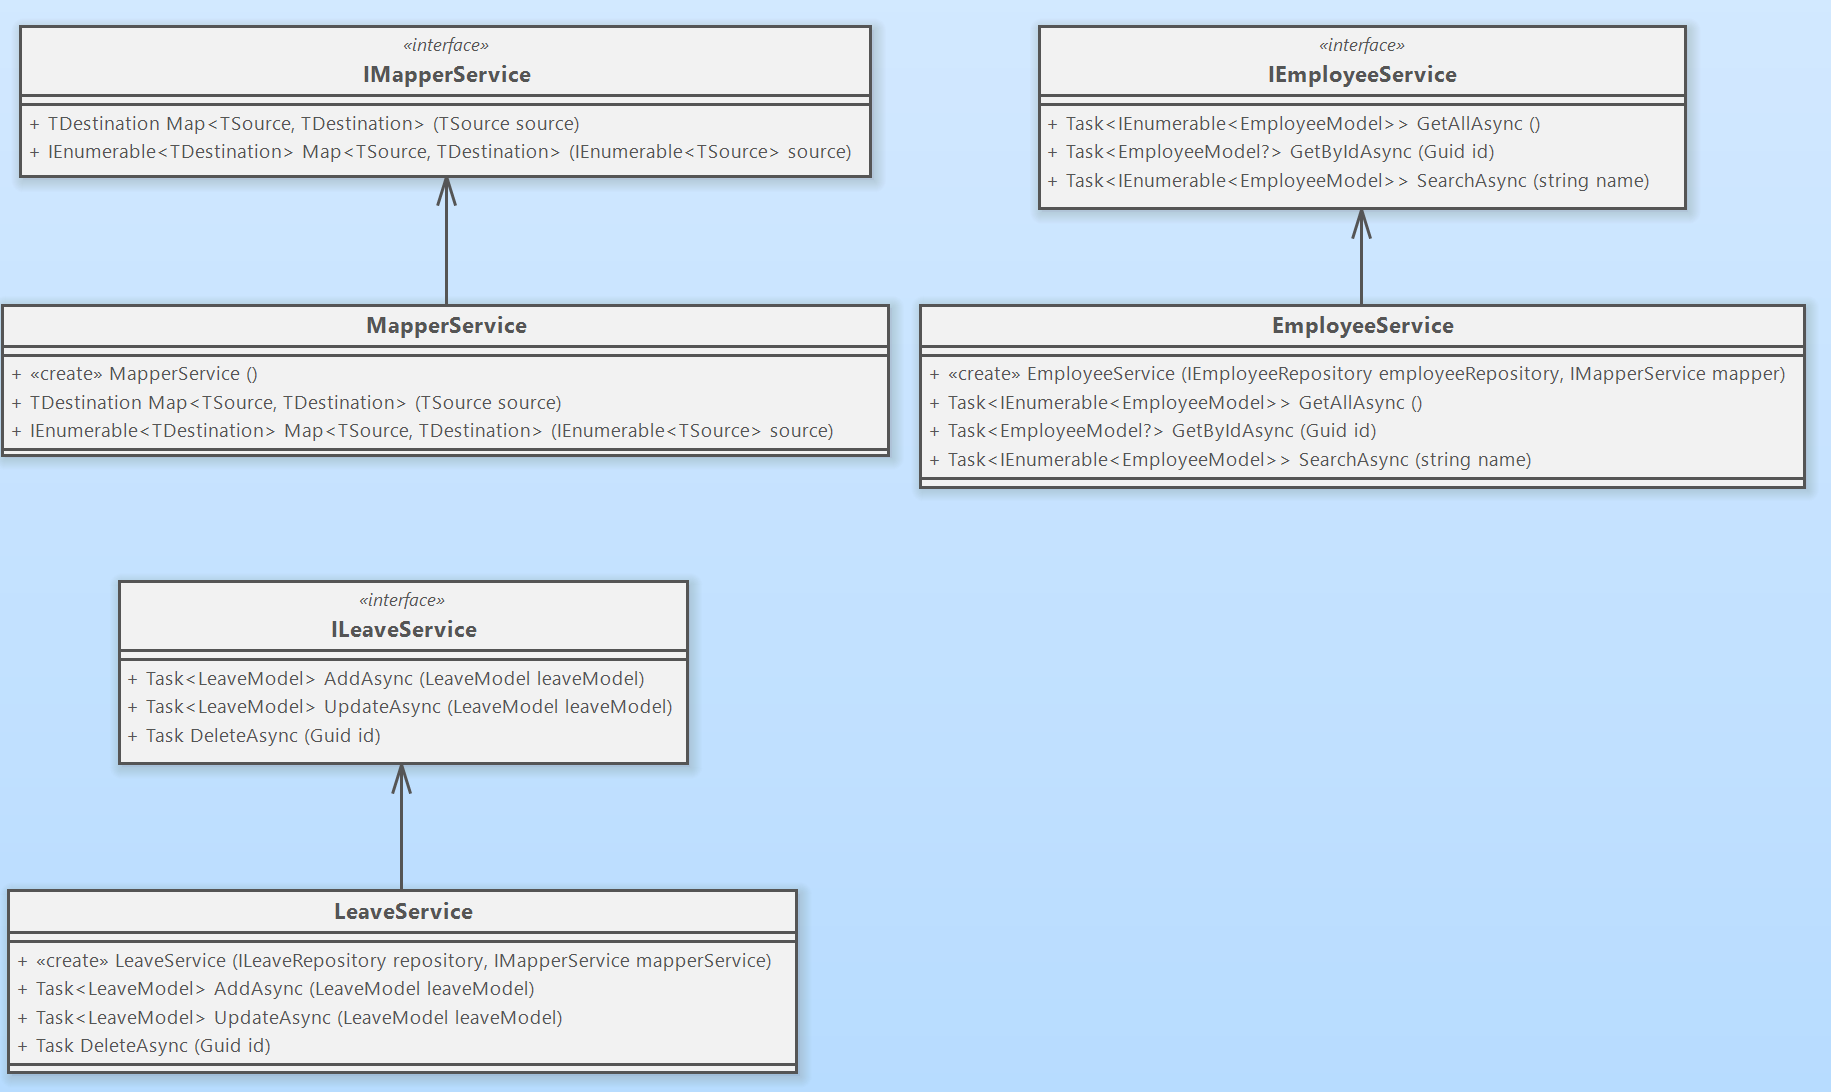
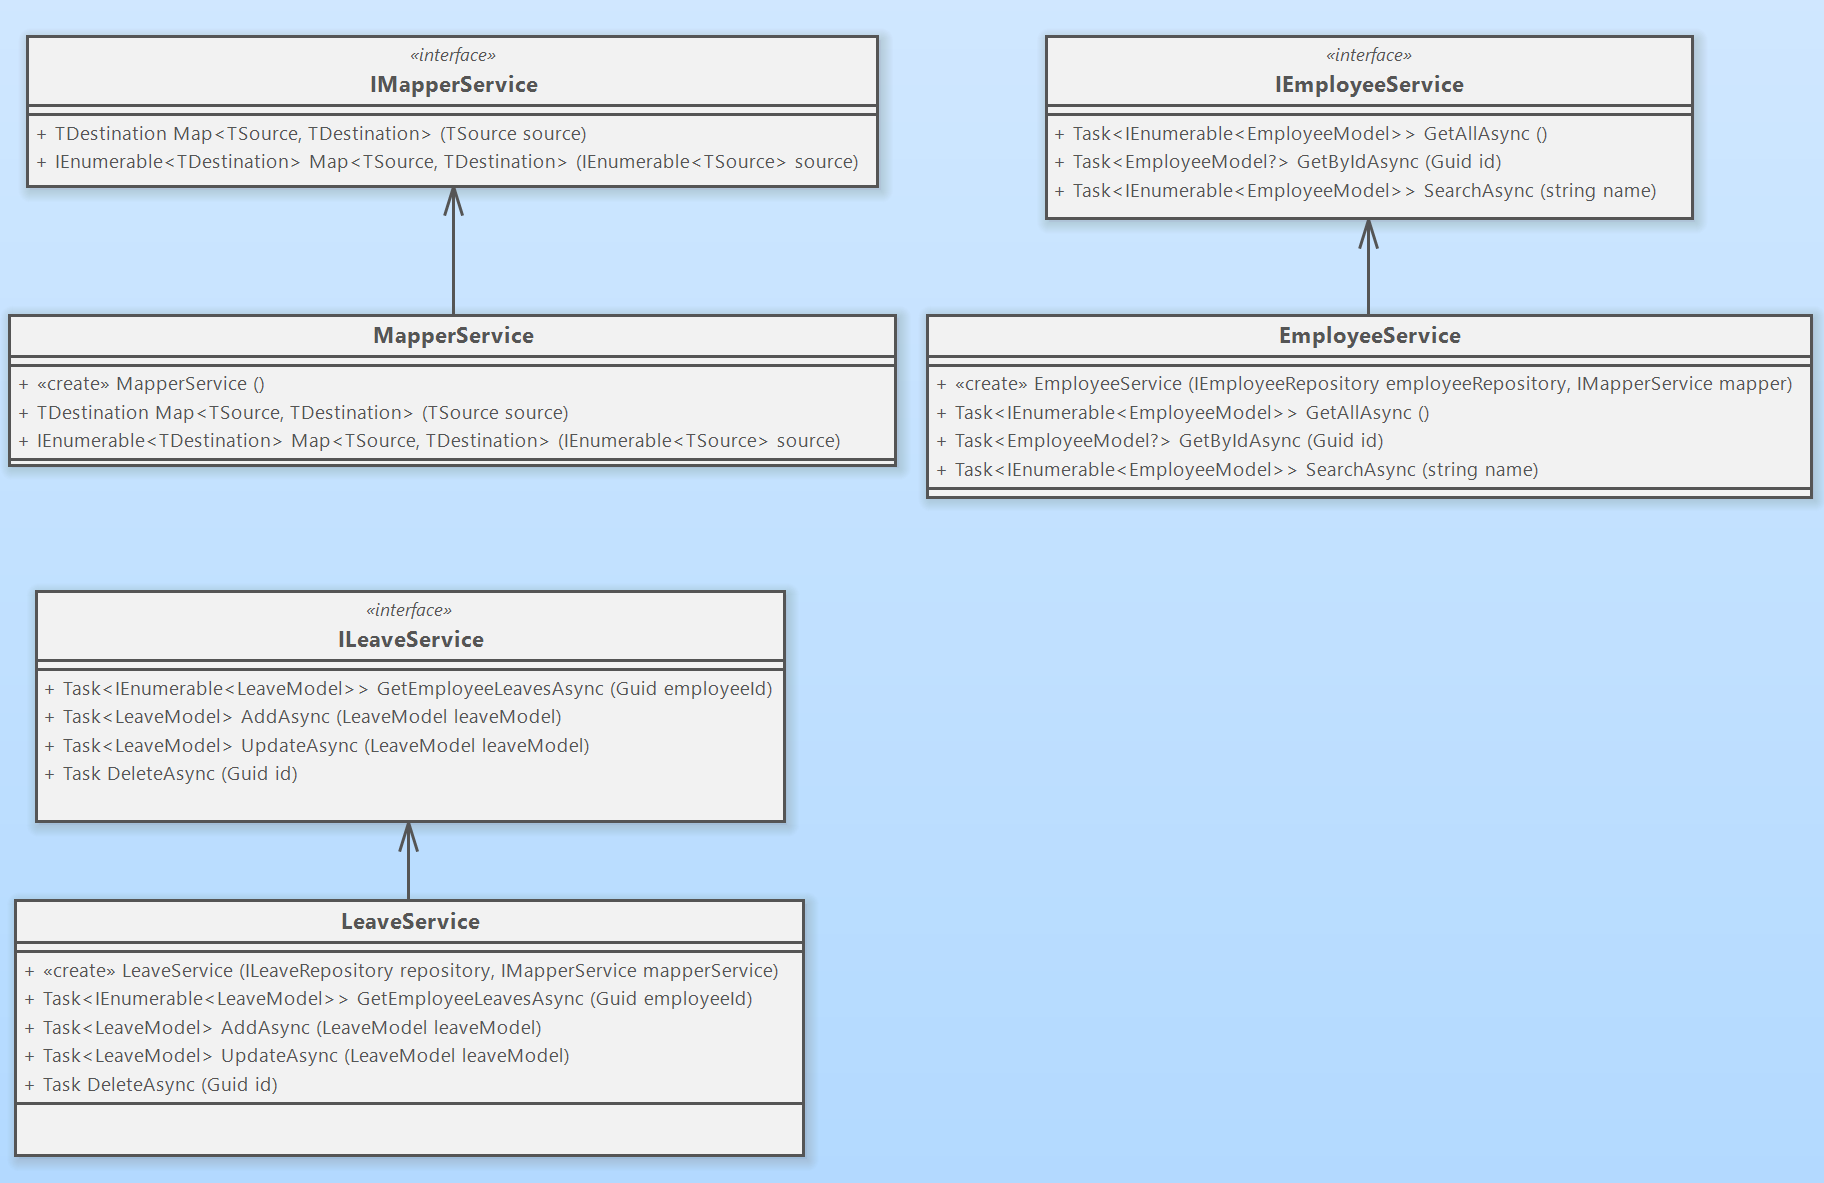
added get employee leaves endpoint.

Changed region(s): [[0.0, 0.0, 1.0, 0.467], [0.0, 0.4982, 0.4688, 0.9963], [0.5625, 0.0, 0.9375, 0.2179]]

diff --git a/Vypex.CodingChallenge.Frontend/src/app/employees/employees.component.ts b/Vypex.CodingChallenge.Frontend/src/app/employees/employees.component.ts
@@ -38,8 +38,8 @@ export class EmployeesComponent implements OnInit {
   }
 
   error(error: any) {
-    this.reset(); // Reset employees state.
-    this.error$.next(error); // Emit error to parent component.
+    this.reset(); // Reset error and employees state.
+    this.error$.next(error); // Display error.
   }
 
   load() {

diff --git a/Vypex.CodingChallenge.Frontend/src/app/employees/employees.component.html b/Vypex.CodingChallenge.Frontend/src/app/employees/employees.component.html
@@ -1,5 +1,4 @@
 @if (error$ | async) {
-<br />
 <nz-alert nzType="error" [nzMessage]="(error$ | async)?.message"></nz-alert>
 }
 <br />

diff --git a/Vypex.CodingChallenge.Service/Vypex.CodingChallenge.Infrastructure/Repositories/LeaveRepository.cs b/Vypex.CodingChallenge.Service/Vypex.CodingChallenge.Infrastructure/Repositories/LeaveRepository.cs
@@ -1,4 +1,5 @@
-using Vypex.CodingChallenge.Domain.Models;
+using Microsoft.EntityFrameworkCore;
+using Vypex.CodingChallenge.Domain.Models;
 using Vypex.CodingChallenge.Infrastructure.Data;
 
 namespace Vypex.CodingChallenge.Infrastructure.Repositories
@@ -35,6 +36,20 @@ namespace Vypex.CodingChallenge.Infrastructure.Repositories
             _context.Leaves.Update(entity);
             await _context.SaveChangesAsync();
             return entity;
+        }
+
+        public async Task<IEnumerable<Leave>> GetEmployeeLeavesAsync(Guid employeeId)
+        {
+            var employee = await _context.Employees
+                                 .Include(e => e.Leaves)
+                                 .SingleOrDefaultAsync(e => e.Id == employeeId);
+
+            if (employee == null)
+            {
+                return Enumerable.Empty<Leave>();
+            }
+
+            return employee.Leaves;
         }
     }
 }

diff --git a/Vypex.CodingChallenge.Service/Vypex.CodingChallenge.Infrastructure/Business/LeaveService.cs b/Vypex.CodingChallenge.Service/Vypex.CodingChallenge.Infrastructure/Business/LeaveService.cs
@@ -15,6 +15,12 @@ namespace Vypex.CodingChallenge.Infrastructure.Business
             _mapperService = mapperService;
         }
 
+        public async Task<IEnumerable<LeaveModel>> GetEmployeeLeavesAsync(Guid employeeId)
+        {
+            var leaves = await _leaveRepository.GetEmployeeLeavesAsync(employeeId);
+            return _mapperService.Map<Leave, LeaveModel>(leaves);
+        }
+
         public async Task<LeaveModel> AddAsync(LeaveModel leaveModel)
         {
             var leave = _mapperService.Map<LeaveModel, Leave>(leaveModel);

diff --git a/Vypex.CodingChallenge.Service/Vypex.CodingChallenge.API/Controllers/LeavesController.cs b/Vypex.CodingChallenge.Service/Vypex.CodingChallenge.API/Controllers/LeavesController.cs
@@ -15,6 +15,12 @@ namespace Vypex.CodingChallenge.API.Controllers
             _leaveService = leaveService;
         }
 
+        [HttpGet("{employeeId}")]
+        public async Task<IActionResult> GetEmployeeLeaves(Guid employeeId)
+        {
+            return Ok(await _leaveService.GetEmployeeLeavesAsync(employeeId));
+        }
+
         [HttpPost]
         public async Task<IActionResult> Add(LeaveModel model)
         {

diff --git a/Vypex.CodingChallenge.Service/Vypex.CodingChallenge.Infrastructure/Business/ILeaveService.cs b/Vypex.CodingChallenge.Service/Vypex.CodingChallenge.Infrastructure/Business/ILeaveService.cs
@@ -7,5 +7,6 @@ namespace Vypex.CodingChallenge.Infrastructure.Business
         Task<LeaveModel> AddAsync(LeaveModel leaveModel);
         Task<LeaveModel> UpdateAsync(LeaveModel leaveModel);
         Task DeleteAsync(Guid id);
+        Task<IEnumerable<LeaveModel>> GetEmployeeLeavesAsync(Guid employeeId);
     }
 }

diff --git a/Vypex.CodingChallenge.Service/Vypex.CodingChallenge.Infrastructure/Repositories/ILeaveRepository.cs b/Vypex.CodingChallenge.Service/Vypex.CodingChallenge.Infrastructure/Repositories/ILeaveRepository.cs
@@ -4,5 +4,6 @@ namespace Vypex.CodingChallenge.Infrastructure.Repositories
 {
     public interface ILeaveRepository : IRepository<Leave>
     {
+        Task<IEnumerable<Leave>> GetEmployeeLeavesAsync(Guid employeeId);
     }
 }
